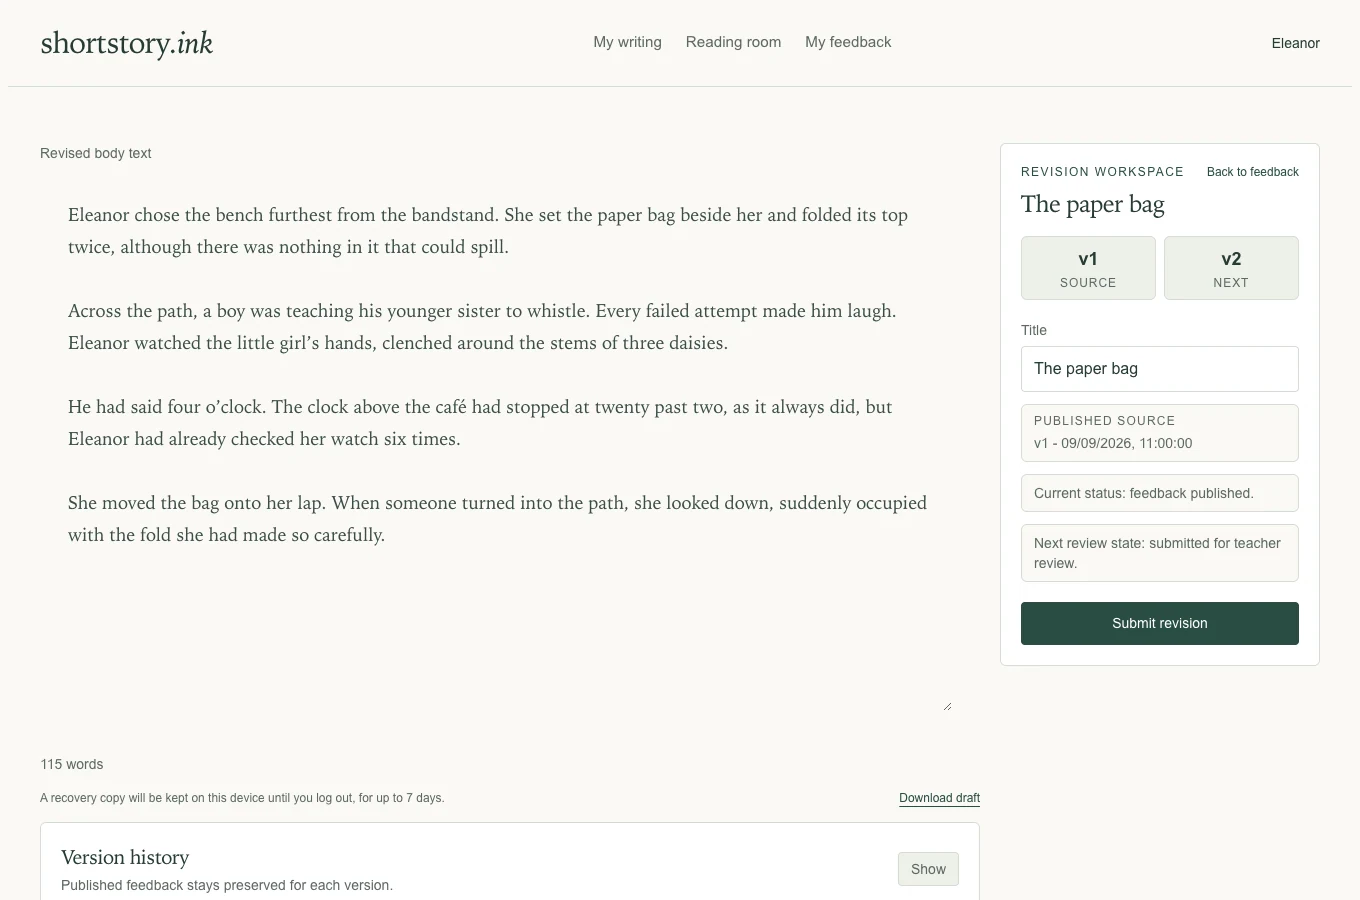
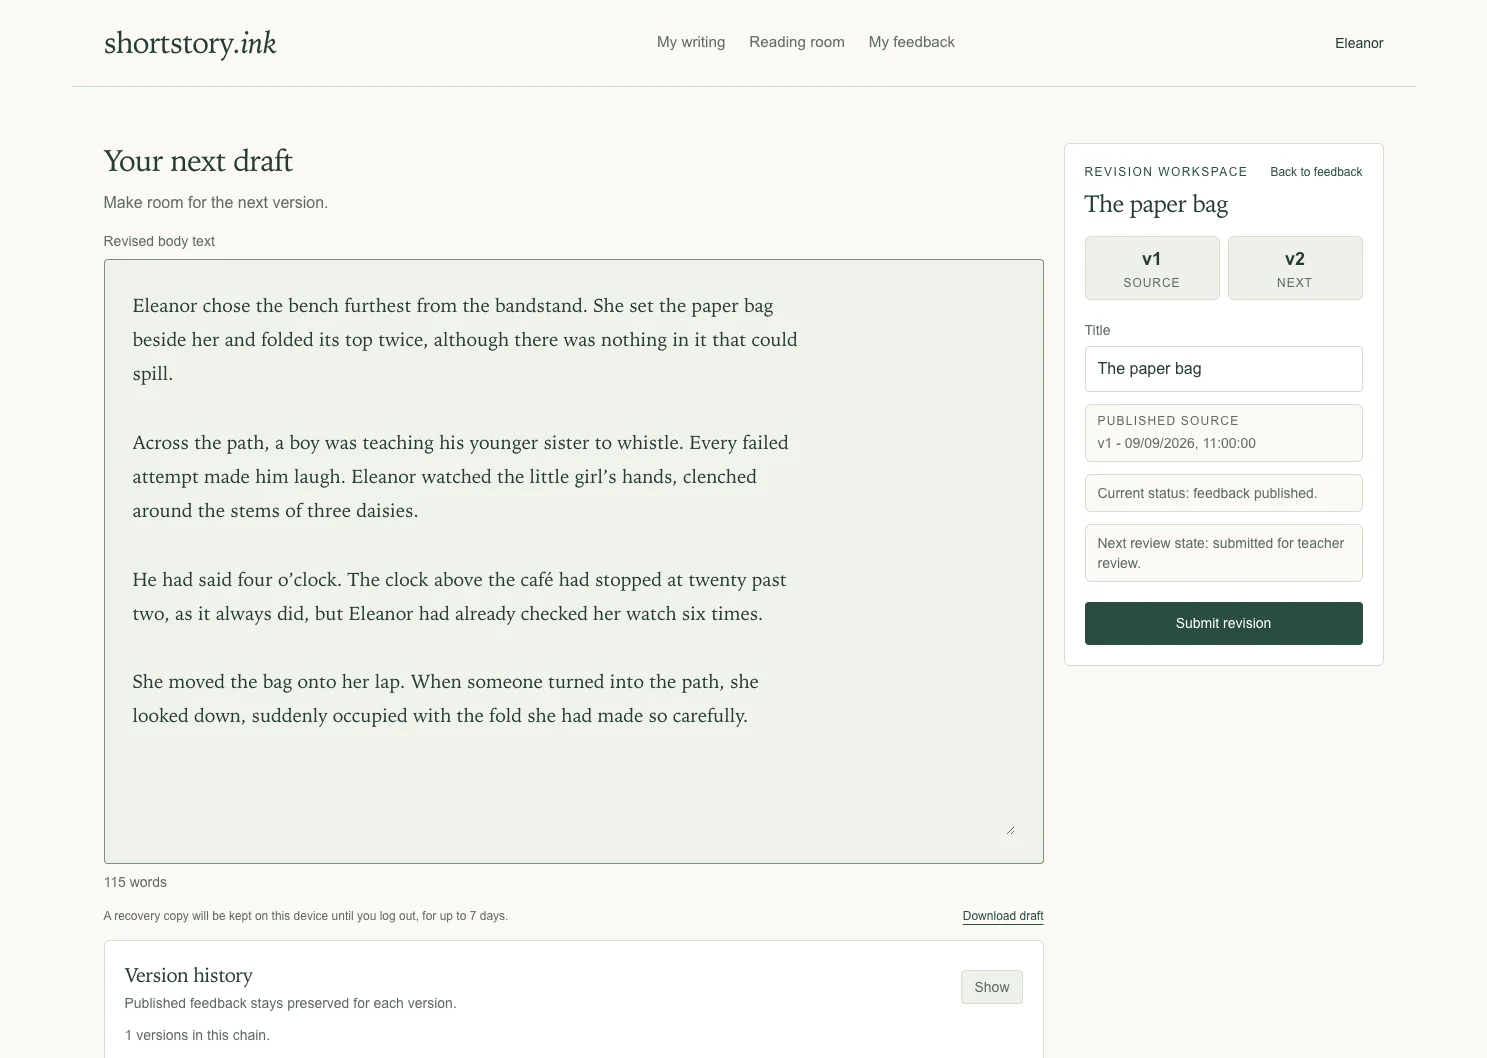
Make writing surfaces inviting with sage shading and clear boundaries

diff --git a/components/writer/writer-submission-composer.tsx b/components/writer/writer-submission-composer.tsx
@@ -117,9 +117,9 @@ export function WriterSubmissionComposer({
 	}, [notice])
 
 	return (
-		<div className="grid items-start gap-x-12 gap-y-10 lg:grid-cols-[minmax(0,1fr)_20rem]">
-   <header className="lg:col-span-2"><p className="studio-eyebrow">Your writing life</p><h1 className="studio-heading mt-3">Welcome back, {writerName.split(' ')[0]}.</h1><p className="mt-4 text-studio-muted">A little space to read, write and begin again.</p></header>
-   <div className="grid gap-12 lg:col-span-2 lg:grid-cols-[1.2fr_1fr]">
+		<div className="mx-auto max-w-[1200px] space-y-10">
+   <header className=""><p className="studio-eyebrow">Your writing life</p><h1 className="studio-heading mt-3">Welcome back, {writerName.split(' ')[0]}.</h1><p className="mt-4 text-studio-muted">A little space to read, write and begin again.</p></header>
+   <div className="grid gap-12  lg:grid-cols-[1.2fr_1fr]">
    <section className="border-y border-studio-line py-7">
     <p className="studio-eyebrow">On your desk</p><h2 className="literary-title mt-4 text-3xl">{draft.title || 'The next page is yours'}</h2>
     <p className="mt-4 max-w-2xl font-serif text-lg leading-8 text-studio-muted">{draft.body ? draft.body.slice(0, 230) + (draft.body.length > 230 ? '…' : '') : 'Begin with someone, somewhere, under pressure. A sentence is enough to start.'}</p>
@@ -172,22 +172,22 @@ export function WriterSubmissionComposer({
 				</div>
 			) : null}
 
-			<div id="writing-draft" className="scroll-mt-6 space-y-4">
+			<div id="writing-draft" className="scroll-mt-6 space-y-4"><header className="pb-3"><h2 className="literary-title text-4xl">Your draft</h2><p className="mt-3 font-serif text-xl text-studio-muted">A sentence is enough to begin.</p></header>
 				<label className="block">
-					<span className="mb-2 block text-sm text-studio-muted">
-						Your draft
+					<span className="mb-3 block text-xs uppercase tracking-[0.1em] text-studio-muted">
+						Write here
 					</span>
-					<div className="folio-page p-5 sm:p-6 lg:min-h-[34rem] lg:p-7">
+					<div className="writing-surface p-5 sm:p-7">
 						<ManuscriptTextarea
 							name="body"
 							value={draft.body}
 							disabled={!recovery.ready || pending}
 							required
 							form="writer-submit-form"
-							rows={16}
-							className="min-h-[26rem] w-full resize-y border-none bg-transparent font-serif text-[18px] leading-8 text-studio-ink/90 outline-none placeholder:text-studio-ink/45 lg:min-h-[28rem]"
+							rows={12}
+							className="writing-manuscript"
 							placeholder={
-								'Paste or type the piece here as you want it read. Formatting is preserved.\n\nUse Tab to indent dialogue in the standard way.'
+								'Begin here, or paste a piece you have started.'
 							}
 							onValueChange={(body) => recovery.edit({ body })}
 						/>
@@ -212,20 +212,15 @@ export function WriterSubmissionComposer({
 
 				<DraftRecoveryNotice message={recovery.message} download={recovery.download} />
 
-				<SubmissionHistorySelect
-					submissions={submissions}
-					submissionsError={submissionsError}
-					deleteSubmissionAction={deleteSubmissionAction}
-				/>
 			</div>
 
 			<form
 				id="writer-submit-form"
 				action={submit}
-				className="surface p-4 lg:sticky lg:top-6 lg:p-5">
-    <p className="studio-eyebrow">When you are ready</p><h2 className="literary-title mt-3 text-2xl">Share your writing</h2><p className="mt-3 text-sm leading-6 text-studio-muted">{submittedCount} awaiting a read · {inReviewCount} in review · {publishedCount} with feedback</p>
+				className="border-t border-studio-line pt-7">
+    <p className="studio-eyebrow">When you are ready</p><div className="mt-3 flex flex-wrap items-baseline justify-between gap-3"><h2 className="literary-title text-3xl">Share your writing</h2><p className="text-sm leading-6 text-studio-muted">{submittedCount} awaiting a read · {inReviewCount} in review · {publishedCount} with feedback</p></div>
 
-				<div className="mt-5 space-y-3">
+				<div className="mt-5 grid items-end gap-5 md:grid-cols-[minmax(0,1.2fr)_minmax(0,1fr)_auto]">
 					<label className="block">
 						<span className="mb-1.5 block text-sm text-studio-muted">Title</span>
 						<input
@@ -261,19 +256,23 @@ export function WriterSubmissionComposer({
 									</option>
 								))}
 							</select>
-							<p className="mt-1.5 text-xs leading-5 text-studio-muted">
-								Authorised Basic User submissions are limited to{' '}
-								{abuSubmissionWordLimit.toLocaleString()} words.
-							</p>
 						</label>
 					) : (
 						<div className="rounded-md border border-studio-line bg-studio-canvas px-3 py-2 text-sm text-studio-muted">
 							Default queue
 						</div>
 					)}
+				<button
+					type="submit"
+					disabled={
+						!recovery.ready || pending || isOverAbuLimit || (isWorkshopRequired && !selectedWorkshop)
+					}
+					className="studio-primary w-full md:w-auto md:min-w-[220px]">
+					{pending ? 'Saving…' : isOverAbuLimit ? 'Shorten before submitting' : 'Save submission'}
+				</button>
 				</div>
 
-				<div className="mt-4 space-y-2">
+				<div className="mt-4 space-y-2">{isAbuSelected ? <p className="text-xs text-studio-muted">Authorised Basic User submissions are limited to {abuSubmissionWordLimit.toLocaleString()} words.</p> : null}
 					{notice && (
 						<p className="rounded-lg border border-emerald-300/30 bg-emerald-300/10 px-3 py-2 text-sm text-emerald-800">
 							{notice}
@@ -352,15 +351,14 @@ export function WriterSubmissionComposer({
 					</div>
 				) : null}
 
-				<button
-					type="submit"
-					disabled={
-						!recovery.ready || pending || isOverAbuLimit || (isWorkshopRequired && !selectedWorkshop)
-					}
-					className="studio-primary mt-5 w-full">
-					{pending ? 'Saving…' : isOverAbuLimit ? 'Shorten before submitting' : 'Save submission'}
-				</button>
 			</form>
+<div className="border-t border-studio-line pt-7">
+				<SubmissionHistorySelect
+					submissions={submissions}
+					submissionsError={submissionsError}
+					deleteSubmissionAction={deleteSubmissionAction}
+				/>
+</div>
 		</div>
 	)
 }

diff --git a/app/globals.css b/app/globals.css
@@ -295,3 +295,14 @@ input, select, textarea { accent-color: #496859; }
 .example-reading-column mark { cursor:pointer; }
 
 .example-reading-column[data-large-text="true"] .example-book-page__content p { font-size:22px; line-height:1.9; }
+
+/* A consistent invitation to write: pale sage, perceptible edge, clear focus. */
+.writing-surface { background:#f0f3ec; border:1px solid #7c8e80; border-radius:4px; transition:border-color .15s, box-shadow .15s; }
+.writing-surface:focus-within { border-color:#496859; box-shadow:0 0 0 2px #496859; }
+textarea.writing-manuscript { display:block; width:100%; min-height:25rem; resize:vertical; border:0; background:transparent; color:#263b34; font-family:'Iowan Old Style',Palatino,Georgia,serif; font-size:19px; line-height:1.8; outline:none; }
+textarea.writing-manuscript::placeholder, textarea:not(:disabled):not([readonly])::placeholder { color:#637067; }
+textarea:not(.writing-manuscript):not(:disabled):not([readonly]) { background-color:#f0f3ec; border-color:#7c8e80; }
+textarea:not(.writing-manuscript):focus-visible { outline:2px solid #496859; outline-offset:2px; }
+.writing-surface .tiptap-spike { max-width:65ch; margin-inline:auto; }
+@media (min-width:1024px) { textarea.writing-manuscript { padding-right:max(0px,calc(100% - 65ch)); } }
+@media print { .writing-surface { border:0; background:white; box-shadow:none; } }

diff --git a/app/guide/new-writers/submitting/page.tsx b/app/guide/new-writers/submitting/page.tsx
@@ -3,7 +3,7 @@ import { GuideShell, GuideHero, GuideStep, NextGuideLink } from '../guide-conten
 export const metadata: Metadata = { title: "Submitting | New Writer Guide", description: "Bring one piece, add its title, and send it for a close read when you are ready." }
 export default function Page() { return <GuideShell activeHref="/guide/new-writers/submitting">
 <GuideHero kicker="Submitting" title="Give your draft room to be read." body="Bring one piece, add its title, and send it for a close read when you are ready." />
-<GuideStep number="01" title="Write, then check the details." image="draft-filled" caption="The manuscript and submission details stay beside each other on a wide screen; on a phone they stack.">
+<GuideStep number="01" title="Write, then check the details." image="draft-filled" caption="Write in the shaded draft area, then add the submission details below it.">
 <p>{"Choose Start writing on your writing page. Type or paste your draft into the manuscript area, then add a title and choose your group."}</p>
 <p>{"Your paragraph breaks stay with the text. The word counter helps you check the length before you submit."}</p>
 </GuideStep>

diff --git a/components/writer/revision-draft-form.tsx b/components/writer/revision-draft-form.tsx
@@ -92,12 +92,12 @@ export function RevisionDraftForm({
 
 	return (
 		<div className="grid items-start gap-5 lg:grid-cols-[minmax(0,1fr)_20rem]">
-			<div className="space-y-4">
+			<div className="space-y-4"><header><h2 className="literary-title text-3xl">Your next draft</h2><p className="mt-3 text-studio-muted">Make room for the next version.</p></header>
 				<label className="block">
 					<span className="mb-2 block text-sm text-studio-muted">
 						Revised body text
 					</span>
-					<div className="folio-page p-5 sm:p-6 lg:min-h-[34rem] lg:p-7">
+					<div className="writing-surface p-5 sm:p-7">
 						<ManuscriptTextarea
 							name="body"
 							required
@@ -105,7 +105,7 @@ export function RevisionDraftForm({
 							value={draft.body}
 							disabled={!recovery.ready || pending}
 							rows={16}
-							className="min-h-[26rem] w-full resize-y border-none bg-transparent font-serif text-[18px] leading-8 text-studio-ink/90 outline-none placeholder:text-studio-ink/45 lg:min-h-[28rem]"
+							className="writing-manuscript"
 							placeholder="Revise your draft here"
 							onValueChange={(body) => recovery.edit({ body })}
 						/>

diff --git a/app/guide/new-writers/guide-images.ts b/app/guide/new-writers/guide-images.ts
@@ -26,13 +26,13 @@ export const guideImages = {
   },
   "draft-filled": {
     "src": "/guide/new-writers/current/draft-filled.webp",
-    "width": 1360,
-    "height": 900,
-    "alt": "A fictional draft beside its title, group and submission controls"
+    "width": 1487,
+    "height": 1058,
+    "alt": "A fictional draft above its title, group and submission controls"
   },
   "submission-saved": {
     "src": "/guide/new-writers/current/submission-saved.webp",
-    "width": 448,
+    "width": 449,
     "height": 292,
     "alt": "Submission confirmation"
   },
@@ -56,8 +56,8 @@ export const guideImages = {
   },
   "revision": {
     "src": "/guide/new-writers/current/revision.webp",
-    "width": 1360,
-    "height": 900,
+    "width": 1487,
+    "height": 1058,
     "alt": "The revision workspace with source and next-version labels"
   },
   "version-history": {
@@ -80,8 +80,8 @@ export const guideImages = {
   },
   "handout": {
     "src": "/guide/new-writers/current/handout.webp",
-    "width": 1360,
-    "height": 900,
+    "width": 1487,
+    "height": 1058,
     "alt": "The illustrated handout editor"
   }
 } as const

diff --git a/components/teacher/document-builder.tsx b/components/teacher/document-builder.tsx
@@ -1560,7 +1560,7 @@ export function DocumentBuilder({
 								{title.trim() || 'Untitled document'}
 							</h1>
 						</div>
-						<div className={`document-builder-controls ${isPreview ? 'hidden' : 'block'}`}><EditorContent editor={editor} /></div>
+						<div className={`document-builder-controls ${isPreview ? 'hidden' : 'block'}`}><p className="mb-3 mt-6 text-xs uppercase tracking-[0.1em] text-studio-muted">Write and edit here</p><div className="writing-surface px-5 sm:px-7"><EditorContent editor={editor} /></div></div>
       <div className={isPreview ? "mt-2" : "hidden print:block"}>
 							{(editorJson.content ?? []).map((node, index) =>
 								renderPrintNode(node, index),

diff --git a/components/writer/submission-history-select.tsx b/components/writer/submission-history-select.tsx
@@ -58,7 +58,7 @@ export function SubmissionHistorySelect({
 	}
 
 	return (
-		<section className="surface p-4 lg:p-5">
+		<section className="space-y-4">
 			<div className="flex flex-wrap items-start justify-between gap-3">
 				<div>
 					<h2 className="literary-title text-2xl text-studio-ink">

diff --git a/design-qa.md b/design-qa.md
@@ -1,0 +1,27 @@
+# Writing surface design QA
+
+Source visual truth: docs/reviews/2026-09-10-writing-surfaces/02-place-to-begin.png (the second displayed mockup selected by Mark).
+Implementation screenshot: docs/reviews/2026-09-10-writing-surfaces/implementation/writer-1487-empty.png. Source and implementation are 1487 × 1058 pixels; browser viewport 1487 × 1058 CSS pixels at density 1. State: empty editor, scrolled to writing area. Focused/filled states and 390px phone captures are adjacent.
+Full-view comparison: docs/reviews/2026-09-10-writing-surfaces/comparison.png. Source left, implementation right, both reduced equally for comparison. The writing region is the primary content of the full-view comparison; separate crop was unnecessary.
+
+## Findings
+No actionable P0/P1/P2 findings remain.
+- Typography: existing literary serif and system sans-serif retained; readable 19px manuscript text, 36px draft heading, persistent small label and invitation.
+- Layout: pale sage writing surface above sharing controls; fine dividers; generous spacing; phone fields stack. The source’s three-column sharing row is reproduced on desktop. Existing status counts, real recovery wording and previous-submission controls are intentionally retained.
+- Tokens: surface #f0f3ec, border #7c8e80 (3.10:1), focus #496859 (5.50:1), readable #637067 placeholder. Border is deliberately a little stronger than the generated reference. No shadows added.
+- Assets: selected reference uses no illustration assets. Existing handout illustrations retained with their original proportions.
+- Copy: exact draft invitation and placeholder adopted. Sharing follows drafting; guide caption updated to describe the new arrangement.
+
+## Comparison history
+First desktop capture showed the first typing line too far inset from the left edge. Corrected to a left-aligned first line while constraining long text with right padding. Adjusted sheet height, sharing heading and row proportions; re-captured desktop/mobile, empty/focus/filled and other editable surfaces. Final browser checks passed with no page errors.
+
+## Interaction checks
+Desktop and phone: type a draft, set title, reload and recover identical text/title, invoke local fixture submission confirmation, verify sharing below writing, inspect revision and handout surfaces, switch handout to preview and confirm editing surface is hidden. No horizontal overflow on inspected screens. Existing automated suite: 23 tests passed. API requests intercepted; authenticated persistence is not established by these checks.
+
+## Implementation checklist
+Completed selected writer layout, consistent editable surfaces, visible focus, responsive fields, draft recovery checks and refreshed guide imagery. Temporary fictional fixture removed from app routes before build.
+
+## Follow-up polish
+No blocking visual issues. The guide screenshots use fictional writing.
+
+final result: passed

diff --git a/docs/reviews/2026-09-10-writing-surfaces/design-qa.md b/docs/reviews/2026-09-10-writing-surfaces/design-qa.md
@@ -1,0 +1,27 @@
+# Writing surface design QA
+
+Source visual truth: docs/reviews/2026-09-10-writing-surfaces/02-place-to-begin.png (the second displayed mockup selected by Mark).
+Implementation screenshot: docs/reviews/2026-09-10-writing-surfaces/implementation/writer-1487-empty.png. Source and implementation are 1487 × 1058 pixels; browser viewport 1487 × 1058 CSS pixels at density 1. State: empty editor, scrolled to writing area. Focused/filled states and 390px phone captures are adjacent.
+Full-view comparison: docs/reviews/2026-09-10-writing-surfaces/comparison.png. Source left, implementation right, both reduced equally for comparison. The writing region is the primary content of the full-view comparison; separate crop was unnecessary.
+
+## Findings
+No actionable P0/P1/P2 findings remain.
+- Typography: existing literary serif and system sans-serif retained; readable 19px manuscript text, 36px draft heading, persistent small label and invitation.
+- Layout: pale sage writing surface above sharing controls; fine dividers; generous spacing; phone fields stack. The source’s three-column sharing row is reproduced on desktop. Existing status counts, real recovery wording and previous-submission controls are intentionally retained.
+- Tokens: surface #f0f3ec, border #7c8e80 (3.10:1), focus #496859 (5.50:1), readable #637067 placeholder. Border is deliberately a little stronger than the generated reference. No shadows added.
+- Assets: selected reference uses no illustration assets. Existing handout illustrations retained with their original proportions.
+- Copy: exact draft invitation and placeholder adopted. Sharing follows drafting; guide caption updated to describe the new arrangement.
+
+## Comparison history
+First desktop capture showed the first typing line too far inset from the left edge. Corrected to a left-aligned first line while constraining long text with right padding. Adjusted sheet height, sharing heading and row proportions; re-captured desktop/mobile, empty/focus/filled and other editable surfaces. Final browser checks passed with no page errors.
+
+## Interaction checks
+Desktop and phone: type a draft, set title, reload and recover identical text/title, invoke local fixture submission confirmation, verify sharing below writing, inspect revision and handout surfaces, switch handout to preview and confirm editing surface is hidden. No horizontal overflow on inspected screens. Existing automated suite: 23 tests passed. API requests intercepted; authenticated persistence is not established by these checks.
+
+## Implementation checklist
+Completed selected writer layout, consistent editable surfaces, visible focus, responsive fields, draft recovery checks and refreshed guide imagery. Temporary fictional fixture removed from app routes before build.
+
+## Follow-up polish
+No blocking visual issues. The guide screenshots use fictional writing.
+
+final result: passed

diff --git a/docs/reviews/2026-09-10-writing-surfaces/direction.md b/docs/reviews/2026-09-10-writing-surfaces/direction.md
@@ -1,0 +1,16 @@
+# Writing surfaces — visual proposals, 10 September 2026
+
+Mark likes the light surfaces but wants subtle boundaries/shading and clearer, more attractive invitations to write. No application code changed for this exploration. Three generated mockups displayed in the numbered order of these files; await selection before implementation.
+
+Current writer composer screenshot: ../2026-09-10-harmony/guide-captures/draft-empty.png. The manuscript currently lacks a perceptible edge while the share panel has a stronger boundary and action. Proposed principle: make editable surfaces distinct, keep labels and invitations adjacent, prioritise writing before sharing, preserve the ivory/sage/green literary style. Avoid claiming cloud autosave: recovery is on-device and ends on logout or after seven days.
+
+1. Waiting page: white sheet, fine edge and very light lower shadow; sharing to the right.
+2. Place to begin: pale sage editing area, sharing beneath.
+3. Guiding margin: introductory left margin, white sheet with a stronger left edge, sharing beneath.
+
+These are image-generated concepts, not browser screenshots or verified accessible implementations. Actual implementation should validate boundary/focus contrast, placeholder readability, comfortable text measure, populated and focused states, and phone layouts. Extend the chosen treatment consistently to revisions, teacher comment editors and handout writing surfaces without boxing read-only content.
+
+Sources reviewed:
+- https://www.nngroup.com/articles/form-design-white-space/
+- https://www.nngroup.com/articles/4-principles-reduce-cognitive-load/
+- https://www.w3.org/WAI/WCAG22/Understanding/non-text-contrast

diff --git a/docs/handoff-literary-redesign-2026-09-09.md b/docs/handoff-literary-redesign-2026-09-09.md
@@ -52,3 +52,8 @@ Mark approved pushing the reviewed redesign and refreshed walkthrough to Git for
 
 ## 10 September — connected annotation reading
 Mark’s live feedback requested comments attached to highlights and similar teacher/writer experiences. Removed the detached example-note lists; both readers now share anchored popups, numbered markers and section navigation. Teacher setup is collapsed and note editing lives inside the same popup. Fixed new-note failure recovery. Four local desktop/mobile browser runs passed with intercepted requests; see reviews/2026-09-10-anchored-examples/review.md. Authenticated live testing remains with Mark.
+
+## 10 September — selected writing surface
+Mark selected the second of three generated mockups: pale sage writing surface with a clear boundary and sharing controls beneath. Implemented in the writer composer, with consistent surfaces for revision, teacher text fields and the handout editor. The guide now has refreshed captures for the affected steps. Desktop/mobile drafting, recovery, mock submission, revision and handout preview checks passed; see design-qa.md and reviews/2026-09-10-writing-surfaces.
+
+Selected writing-surface release: final production build, type validation, ESLint and all 23 tests passed. Temporary fixture removed before build.
